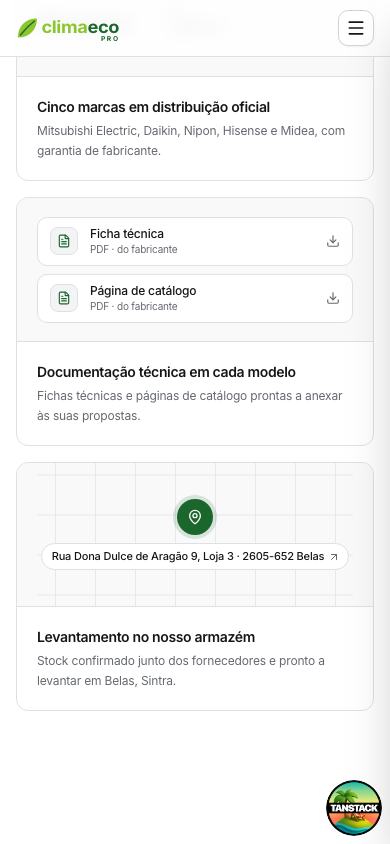
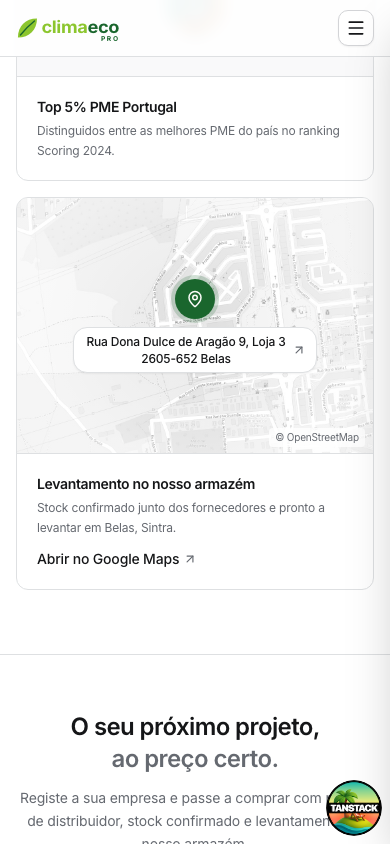
Landing: Sobre as years + PME + full-width warehouse map
Brands and documentation tiles removed; the Top 5% PME tile moves up
beside the years, and the warehouse takes the whole bottom row on a
real map. The map is a static image built once from OpenStreetMap tiles
(scripts/dev/osm-static-map.mjs → public/mapa-armazem.jpg, 167 KB),
toned to the page, credited "© OpenStreetMap", with our pin and the
address on top; clicking opens the Google Maps pin. No runtime map API,
no third-party script, no cookies.

diff --git a/client-frontend/src/components/landing/sobre.tsx b/client-frontend/src/components/landing/sobre.tsx
@@ -1,15 +1,15 @@
-import { ArrowUpRight, Download, FileText, MapPin } from "lucide-react"
+import { ArrowUpRight, MapPin } from "lucide-react"
 
 import { MAPS_ARMAZEM, MORADA_ARMAZEM } from "@/components/shell/nav"
 
 import { cn } from "@/lib/utils"
-import { LogoMascara, MARCAS } from "./brand-marquee"
 import { CountUp, Etiqueta, Reveal, useInView } from "./reveal"
 
 /**
- * About block in the page's own language: a short intro, then a bento of
- * hairline tiles, each with a small illustration built from the same tokens
- * and reveal motion as the vignettes and the deck. The full story lives on
+ * About block in the page's own language: a short intro, then three hairline
+ * tiles (years, PME distinction, and the warehouse on a real map across the
+ * full width), each with an illustration built from the same tokens and
+ * reveal motion as the vignettes and the deck. The full story lives on
  * /sobre; this only says who is behind the prices.
  */
 export function Sobre() {
@@ -39,32 +39,12 @@ export function Sobre() {
           </Tile>
           <Tile
             atraso={80}
-            titulo="Cinco marcas em distribuição oficial"
-            texto="Mitsubishi Electric, Daikin, Nipon, Hisense e Midea, com garantia de fabricante."
-          >
-            <Marcas />
-          </Tile>
-          <Tile
-            atraso={160}
-            titulo="Documentação técnica em cada modelo"
-            texto="Fichas técnicas e páginas de catálogo prontas a anexar às suas propostas."
-          >
-            <Documentos />
-          </Tile>
-          <Tile
-            atraso={240}
-            titulo="Levantamento no nosso armazém"
-            texto="Stock confirmado junto dos fornecedores e pronto a levantar em Belas, Sintra."
-          >
-            <Armazem />
-          </Tile>
-          <Tile
-            atraso={320}
             titulo="Top 5% PME Portugal"
             texto="Distinguidos entre as melhores PME do país no ranking Scoring 2024."
           >
             <Distincao />
           </Tile>
+          <Armazem />
         </div>
       </div>
     </section>
@@ -143,85 +123,84 @@ function Anos() {
   )
 }
 
-/** The five partner logos in the page's single tone. */
-function Marcas() {
-  return (
-    <div className="grid w-full grid-cols-3 items-center gap-x-4 gap-y-3 text-muted-foreground/70">
-      {MARCAS.map((marca) => (
-        <div
-          key={marca.nome}
-          className="flex h-6 items-center justify-center"
-          aria-label={marca.nome}
-        >
-          {marca.logo ? (
-            <LogoMascara src={marca.logo} className="h-full w-full max-w-24" />
-          ) : (
-            <span className="text-base font-semibold tracking-tight italic">
-              nipon
-            </span>
-          )}
-        </div>
-      ))}
-    </div>
-  )
-}
-
-/** Two document rows, revealed one after the other. */
-function Documentos() {
-  const { ref, visivel } = useInView<HTMLDivElement>()
-  const linhas = ["Ficha técnica", "Página de catálogo"]
-  return (
-    <div ref={ref} aria-hidden className="w-full max-w-xs space-y-2">
-      {linhas.map((nome, i) => (
-        <div
-          key={nome}
-          className="surge flex items-center gap-3 rounded-lg border bg-background px-3 py-2"
-          data-on={visivel}
-          style={{ transitionDelay: `${i * 220}ms` }}
-        >
-          <span className="flex size-7 shrink-0 items-center justify-center rounded-md border bg-muted text-primary">
-            <FileText className="size-3.5" />
-          </span>
-          <span className="min-w-0 flex-1">
-            <span className="block truncate text-xs font-medium">{nome}</span>
-            <span className="block text-[10px] text-muted-foreground">
-              PDF · do fabricante
-            </span>
-          </span>
-          <Download className="size-3.5 text-muted-foreground" />
-        </div>
-      ))}
-    </div>
-  )
-}
-
-/** A stylised map: thin guides, one pin, the address; opens the real pin. */
+/**
+ * Full-width warehouse tile: a static map of Belas (OpenStreetMap tiles,
+ * rendered once by scripts/dev/osm-static-map.mjs and toned to the page)
+ * with our pin and the address on top. The map opens the Google Maps pin.
+ */
 function Armazem() {
   const { ref, visivel } = useInView<HTMLDivElement>()
   return (
-    <div ref={ref} className="size-full">
-      <a
-        href={MAPS_ARMAZEM}
-        target="_blank"
-        rel="noopener noreferrer"
-        aria-label={`Abrir o armazém no Google Maps: ${MORADA_ARMAZEM.rua}, ${MORADA_ARMAZEM.localidade}`}
-        className="group/mapa relative flex size-full flex-col items-center justify-center bg-[linear-gradient(to_right,color-mix(in_oklch,var(--border),transparent_35%)_1px,transparent_1px),linear-gradient(to_bottom,color-mix(in_oklch,var(--border),transparent_35%)_1px,transparent_1px)] bg-[size:2.5rem_2.5rem] bg-center focus-visible:ring-2 focus-visible:ring-ring/50 focus-visible:outline-none focus-visible:ring-inset"
-      >
-        <span
-          className="surge flex flex-col items-center"
-          data-on={visivel}
-          style={{ transitionDelay: "150ms" }}
+    <Reveal
+      atraso={160}
+      className="flex flex-col overflow-hidden rounded-xl border bg-card sm:col-span-2 lg:col-span-3"
+    >
+      <div ref={ref} className="relative h-64 border-b sm:h-72 lg:h-80">
+        <a
+          href={MAPS_ARMAZEM}
+          target="_blank"
+          rel="noopener noreferrer"
+          aria-label={`Abrir o armazém no Google Maps: ${MORADA_ARMAZEM.rua}, ${MORADA_ARMAZEM.localidade}`}
+          className="group/mapa absolute inset-0 flex items-center justify-center focus-visible:ring-2 focus-visible:ring-ring/50 focus-visible:outline-none focus-visible:ring-inset"
         >
-          <span className="flex size-9 items-center justify-center rounded-full bg-primary text-primary-foreground ring-4 ring-primary/15 transition-transform group-hover/mapa:-translate-y-0.5">
-            <MapPin className="size-4" />
+          <img
+            src="/mapa-armazem.jpg"
+            alt=""
+            loading="lazy"
+            className="absolute inset-0 size-full object-cover opacity-70 grayscale transition-opacity duration-500 group-hover/mapa:opacity-90"
+          />
+          {/* Soft vignette so the pin and label read over any street density. */}
+          <span
+            aria-hidden
+            className="absolute inset-0 bg-[radial-gradient(ellipse_45%_60%_at_50%_50%,transparent,color-mix(in_oklch,var(--card),transparent_45%))]"
+          />
+          <span
+            className="surge relative flex flex-col items-center"
+            data-on={visivel}
+            style={{ transitionDelay: "150ms" }}
+          >
+            <span className="flex size-10 items-center justify-center rounded-full bg-primary text-primary-foreground ring-4 ring-primary/20 transition-transform group-hover/mapa:-translate-y-0.5">
+              <MapPin className="size-4.5" />
+            </span>
+            <span className="mt-2 inline-flex items-center gap-1.5 rounded-2xl border bg-background py-1.5 pr-2.5 pl-3 text-xs font-medium shadow-xs transition-colors group-hover/mapa:border-foreground/25 sm:rounded-full">
+              {/* Two lines on phones, one line from `sm` up. */}
+              <span className="flex flex-col items-center gap-0.5 text-center leading-tight sm:flex-row sm:gap-1">
+                <span>{MORADA_ARMAZEM.rua}</span>
+                <span aria-hidden className="hidden sm:inline">·</span>
+                <span>{MORADA_ARMAZEM.localidade}</span>
+              </span>
+              <ArrowUpRight className="size-3.5 shrink-0 text-muted-foreground" />
+            </span>
           </span>
-          <span className="mt-2 inline-flex items-center gap-1 rounded-full border bg-background py-1 pr-2 pl-2.5 text-[11px] font-medium transition-colors group-hover/mapa:border-foreground/25">
-            {MORADA_ARMAZEM.rua} · {MORADA_ARMAZEM.localidade}
-            <ArrowUpRight className="size-3 text-muted-foreground" />
-          </span>
-        </span>
-      </a>
-    </div>
+        </a>
+        <a
+          href="https://www.openstreetmap.org/copyright"
+          target="_blank"
+          rel="noopener noreferrer"
+          className="absolute right-2 bottom-1.5 rounded bg-background/80 px-1.5 py-0.5 text-[10px] text-muted-foreground hover:text-foreground"
+        >
+          © OpenStreetMap
+        </a>
+      </div>
+      <div className="flex flex-col gap-3 p-5 sm:flex-row sm:items-center sm:justify-between">
+        <div>
+          <h3 className="text-sm font-semibold">Levantamento no nosso armazém</h3>
+          <p className="mt-1 text-xs leading-relaxed text-muted-foreground sm:text-sm">
+            Stock confirmado junto dos fornecedores e pronto a levantar em
+            Belas, Sintra.
+          </p>
+        </div>
+        <a
+          href={MAPS_ARMAZEM}
+          target="_blank"
+          rel="noopener noreferrer"
+          className="inline-flex shrink-0 items-center gap-1 text-sm font-medium text-foreground underline-offset-4 hover:underline"
+        >
+          Abrir no Google Maps
+          <ArrowUpRight className="size-3.5 text-muted-foreground" />
+        </a>
+      </div>
+    </Reveal>
   )
 }
 
